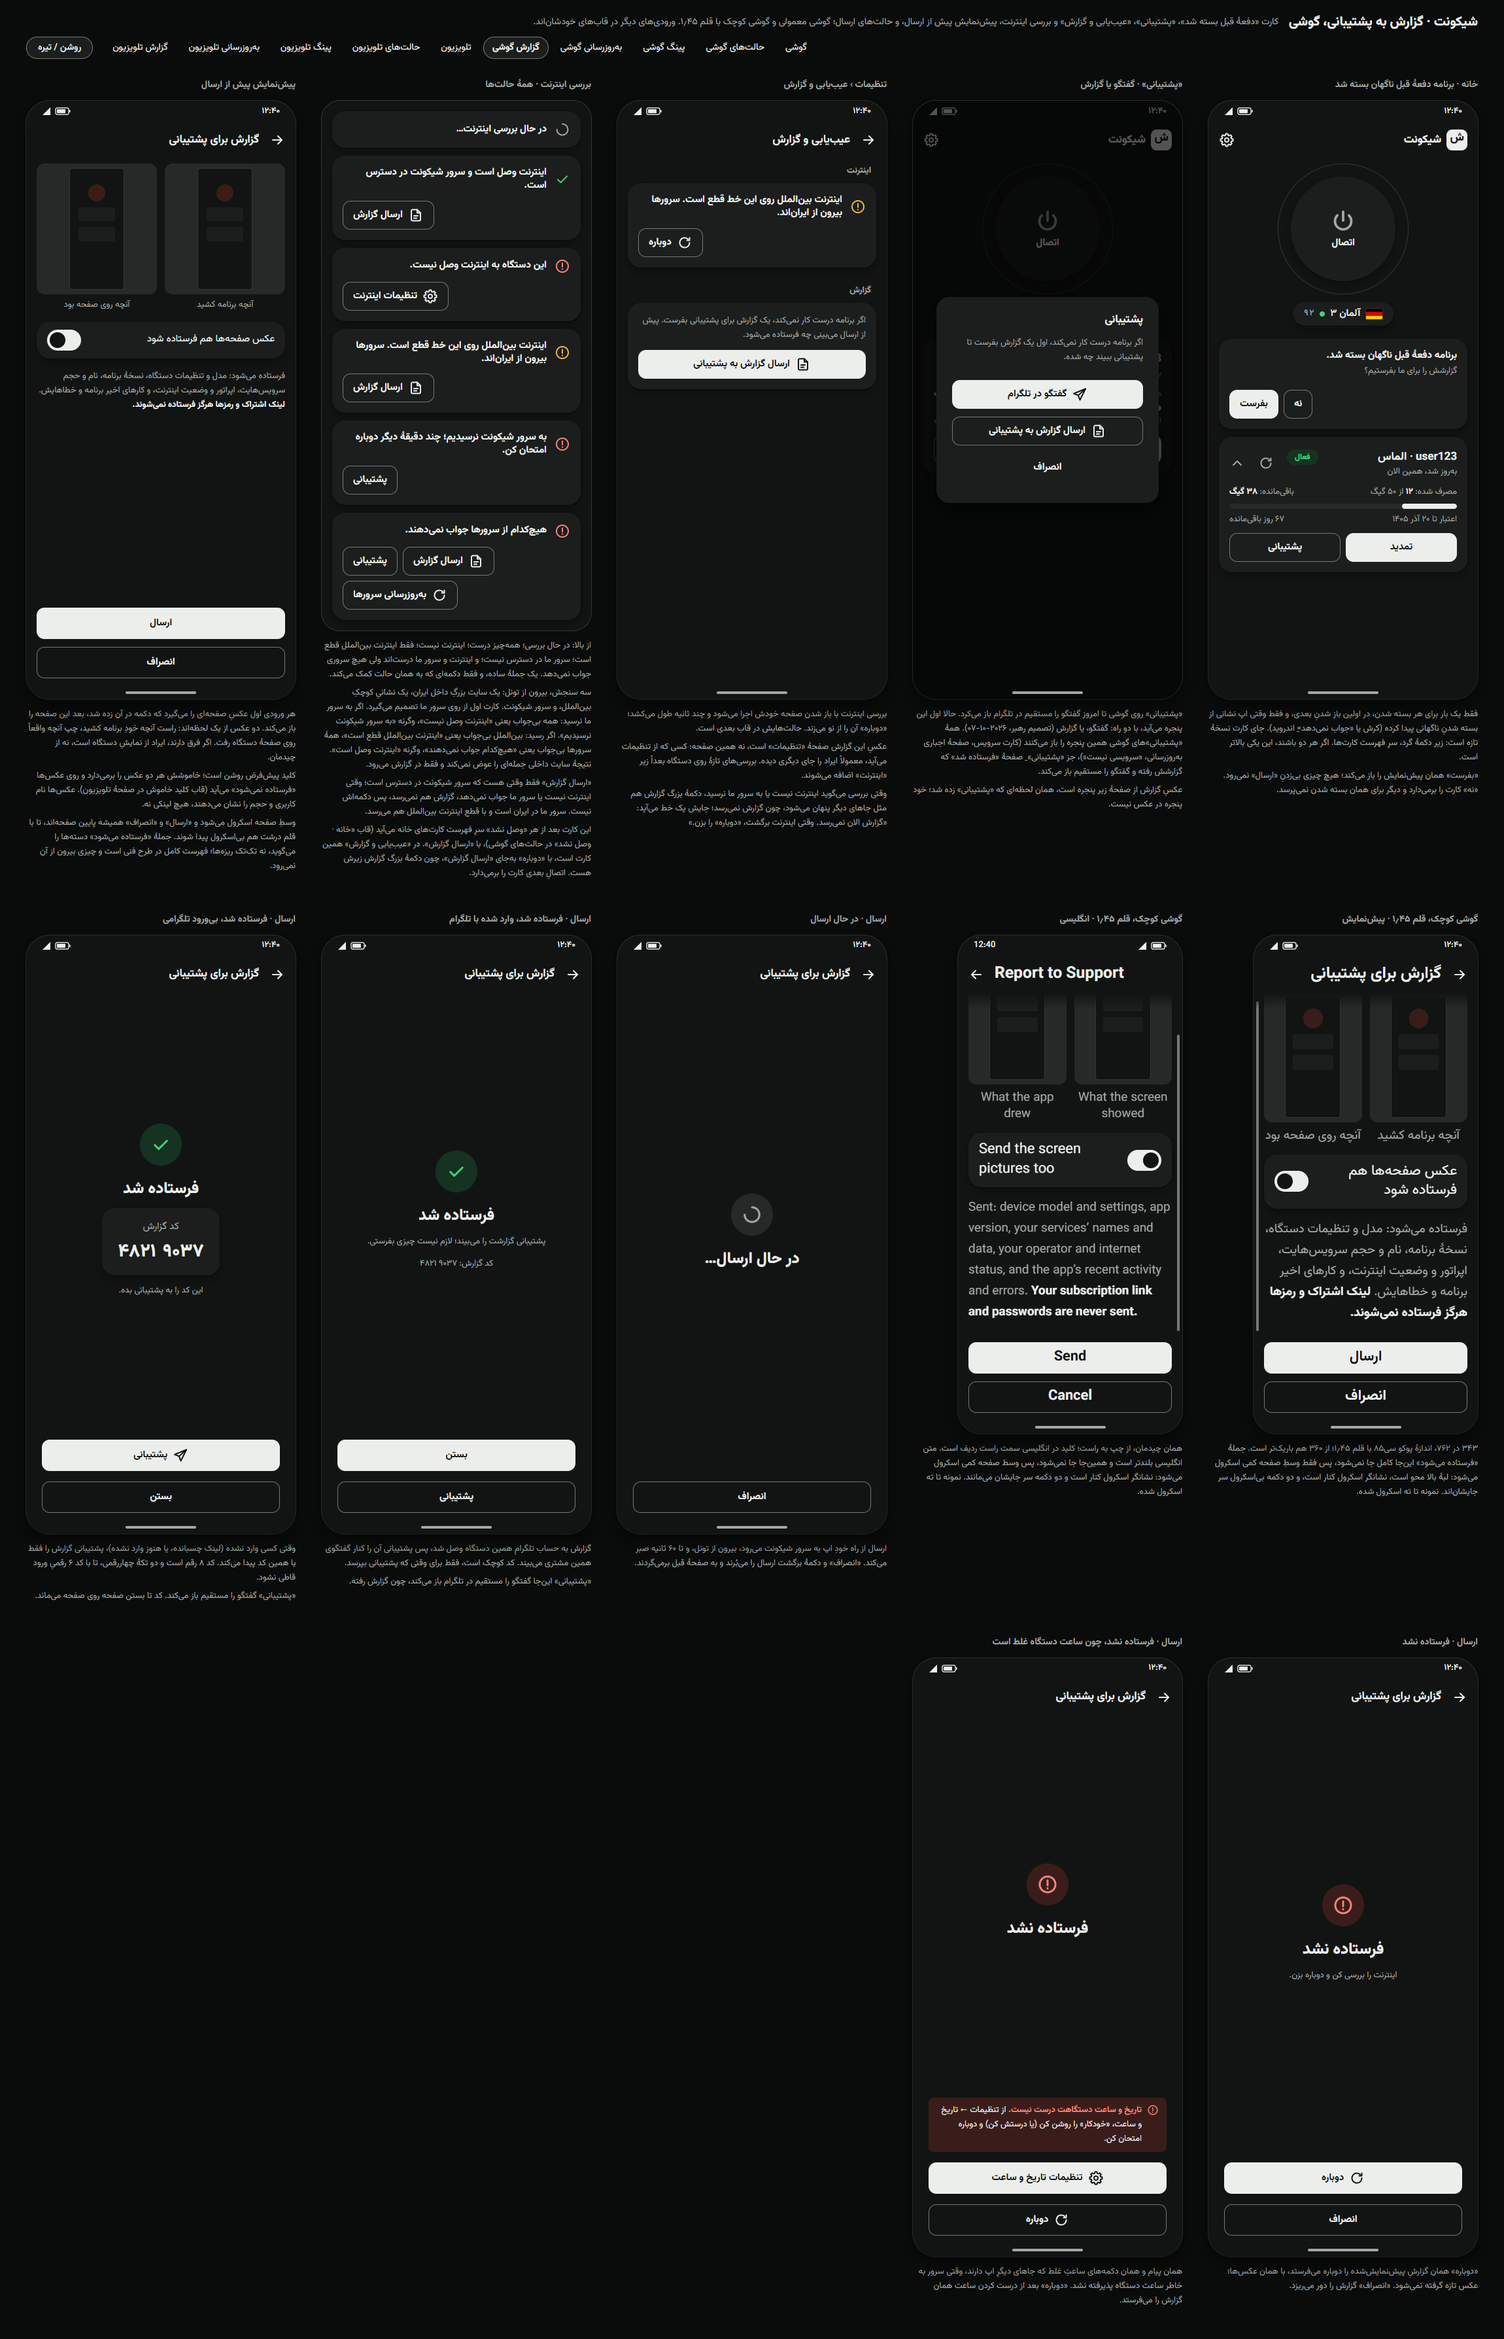
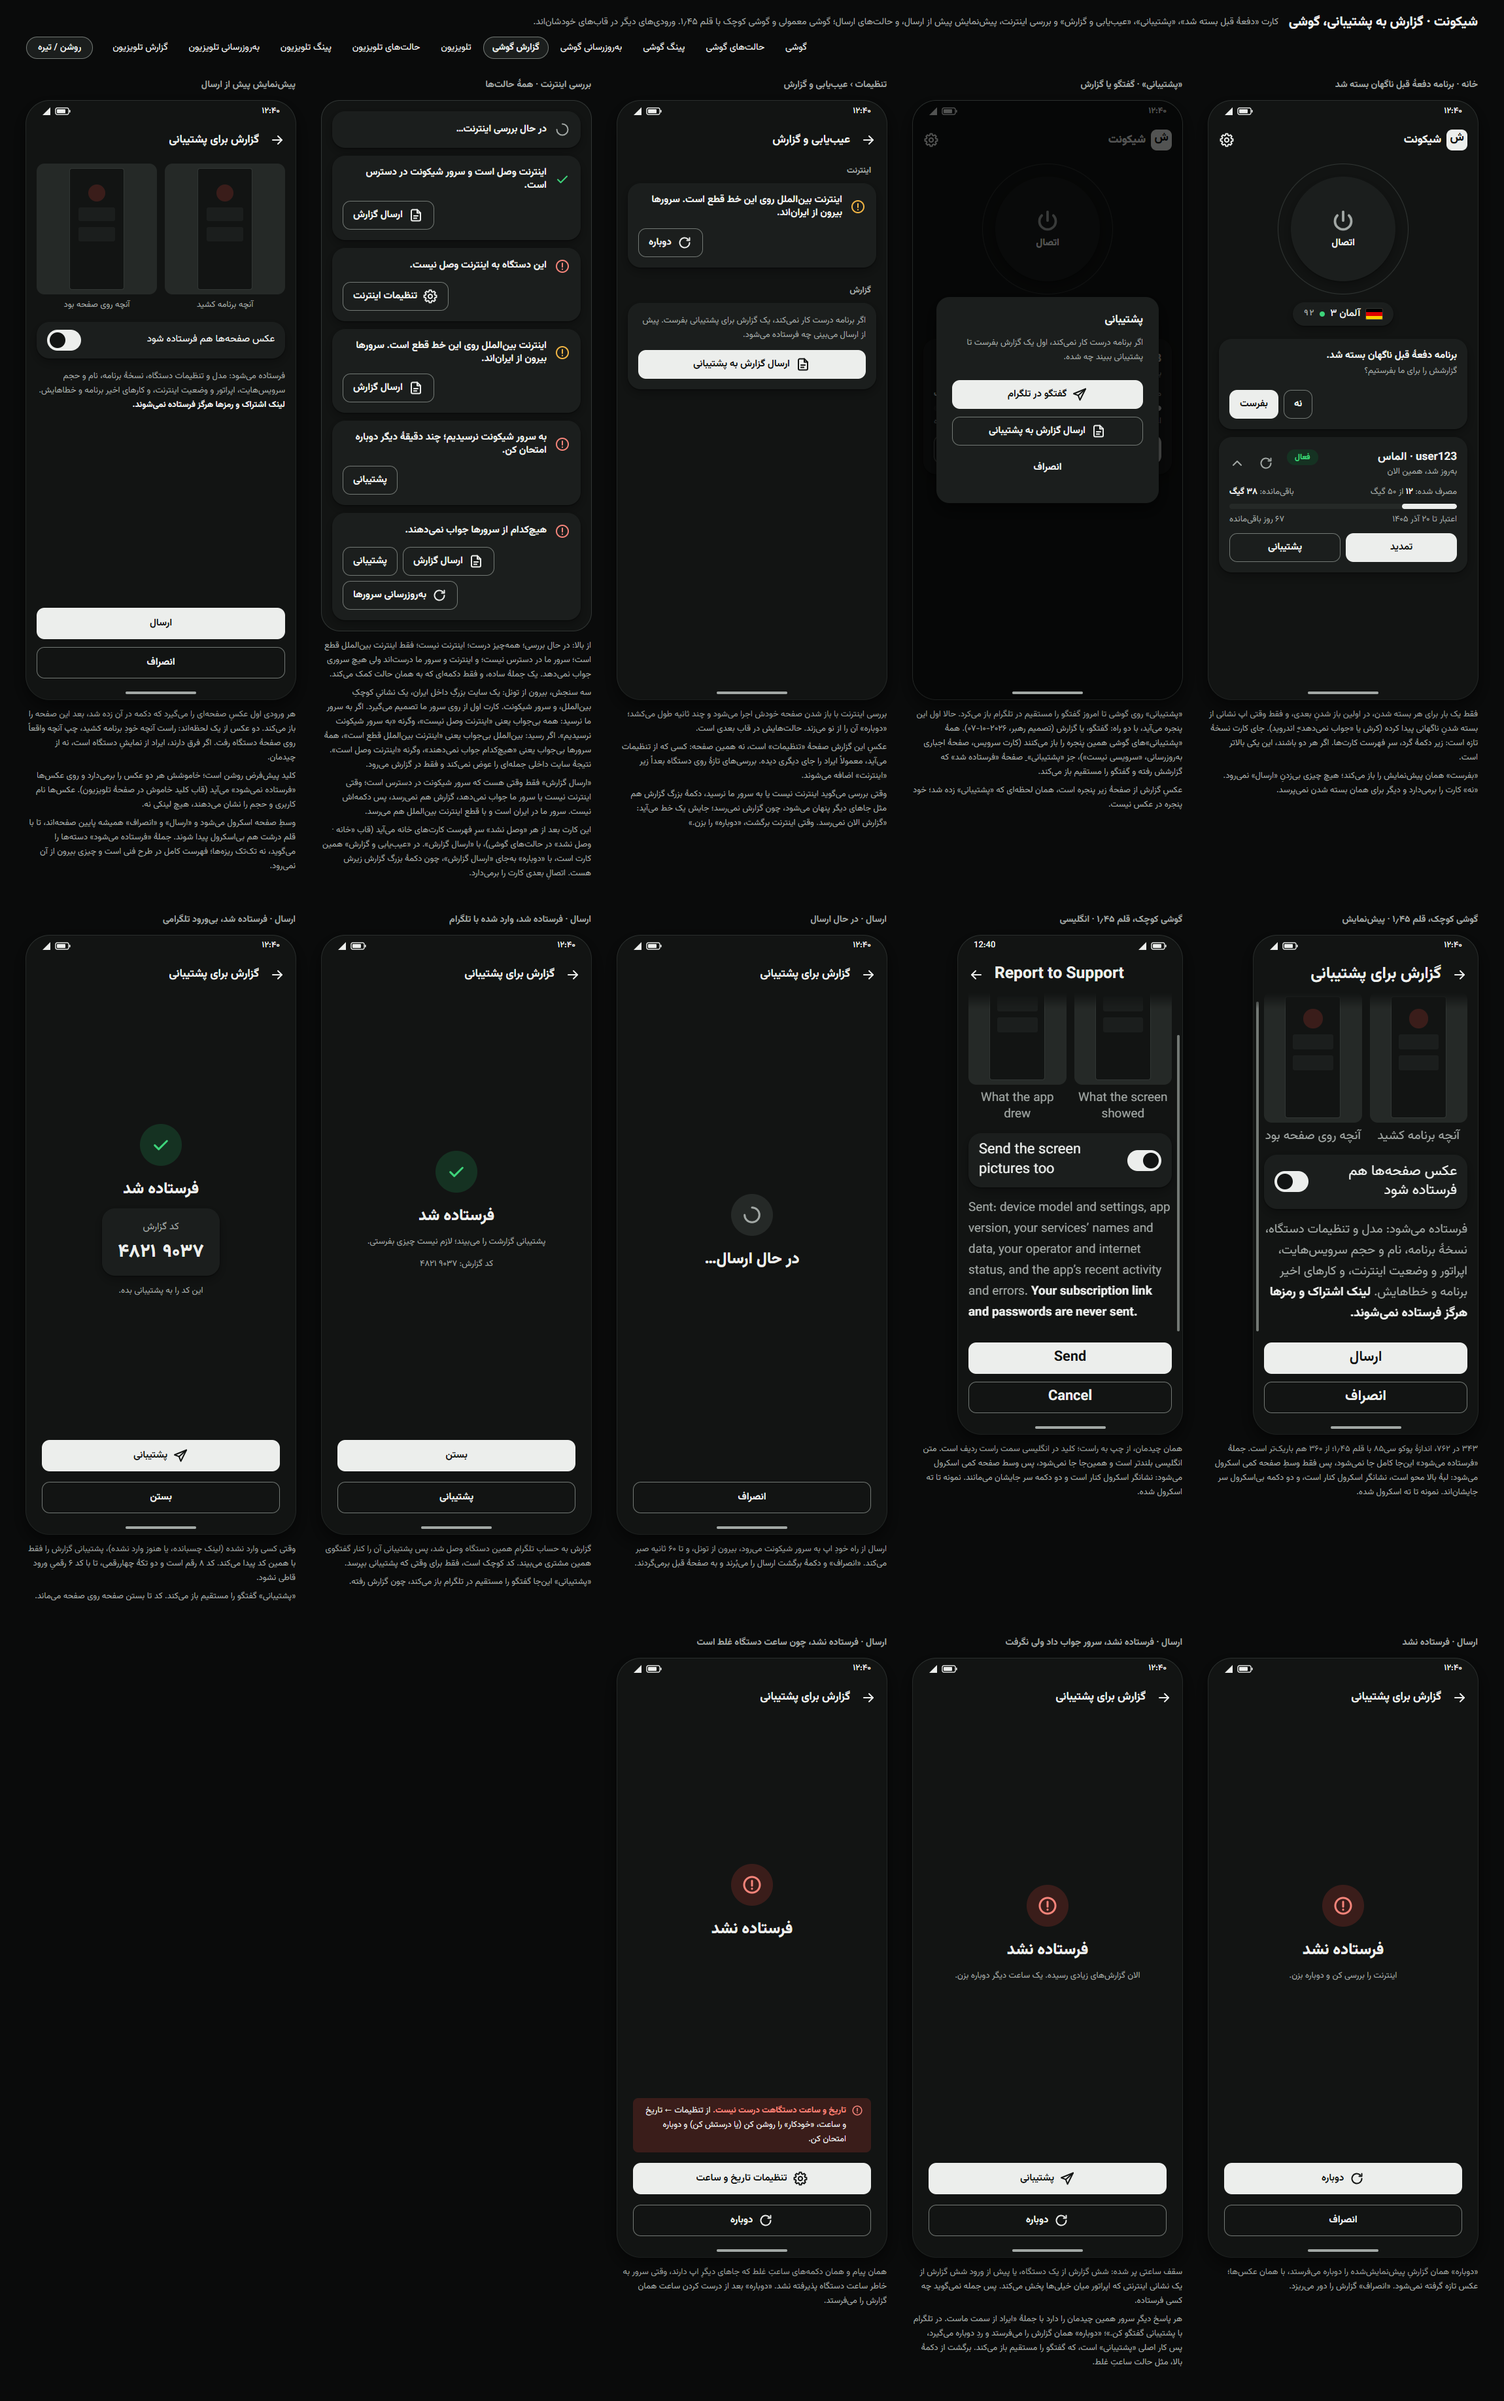
docs(design): word a report the server answered but did not take
A 429 can come from other phones behind the same carrier address or the
hourly total, so it says reports are many, not who sent them. Any other
answer is our own server's, and a retry resends the very same report, so
it owns the fault and points to Support, with Support as the first button.

diff --git a/design/mockups/phone-report.html b/design/mockups/phone-report.html
@@ -393,6 +393,29 @@
   </figure>
 
   <figure class="shot">
+    <figcaption>ارسال · فرستاده نشد، سرور جواب داد ولی نگرفت</figcaption>
+    <div class="phone" data-frame="phone-report-failed-answered">
+      <div class="statusbar"><span>۱۲:۴۰</span><svg><use href="#sb"/></svg></div>
+      <div class="appbar sub">
+        <button class="icon-btn" type="button" aria-label="بازگشت"><svg class="icon"><use href="#i-back"/></svg></button>
+        <h2>گزارش برای پشتیبانی</h2>
+      </div>
+      <div class="login">
+        <div class="login-brand">
+          <span class="hero-icon danger"><svg class="icon"><use href="#i-alert"/></svg></span>
+          <span class="word">فرستاده نشد</span>
+          <span class="sub">الان گزارشهای زیادی رسیده. یک ساعت دیگر دوباره بزن.</span>
+        </div>
+        <button class="btn btn-primary" type="button"><svg class="icon"><use href="#i-plane"/></svg>پشتیبانی</button>
+        <button class="btn btn-outline" type="button"><svg class="icon"><use href="#i-refresh"/></svg>دوباره</button>
+      </div>
+      <div class="gesture"></div>
+    </div>
+    <p class="note">سقف ساعتی پر شده: شش گزارش از یک دستگاه، یا پیش از ورود شش گزارش از یک نشانی اینترنتی که اپراتور میان خیلیها پخش میکند. پس جمله نمیگوید چه کسی فرستاده.</p>
+    <p class="note">هر پاسخ دیگرِ سرور همین چیدمان را دارد با جملهٔ «ایراد از سمت ماست. در تلگرام با پشتیبانی گفتگو کن.»؛ «دوباره» همان گزارش را میفرستد و ردِ دوباره میگیرد، پس کار اصلی «پشتیبانی» است، که گفتگو را مستقیم باز میکند. برگشت از دکمهٔ بالا، مثل حالت ساعتِ غلط.</p>
+  </figure>
+
+  <figure class="shot">
     <figcaption>ارسال · فرستاده نشد، چون ساعت دستگاه غلط است</figcaption>
     <div class="phone" data-frame="phone-report-failed-clock">
       <div class="statusbar"><span>۱۲:۴۰</span><svg><use href="#sb"/></svg></div>

diff --git a/design/mockups/tv-report.html b/design/mockups/tv-report.html
@@ -255,6 +255,26 @@
   </figure>
 
   <figure class="shot">
+    <figcaption>ارسال · فرستاده نشد، سرور جواب داد ولی نگرفت · ریموت روی «پشتیبانی»</figcaption>
+    <div class="tv" data-device="tv" data-frame="tv-report-failed-answered">
+      <header class="tv-top">
+        <h2 class="tv-title">گزارش برای پشتیبانی</h2>
+        <span class="tv-hint">برای برگشت، دکمهٔ برگشتِ ریموت را بزن</span>
+      </header>
+      <div class="tv-result">
+        <span class="hero-icon danger"><svg class="icon"><use href="#i-alert"/></svg></span>
+        <h1>فرستاده نشد</h1>
+        <p>ایراد از سمت ماست. در تلگرام با پشتیبانی گفتگو کن.</p>
+        <div class="actions">
+          <button class="btn btn-primary is-focused" type="button"><svg class="icon"><use href="#i-qr"/></svg>پشتیبانی</button>
+          <button class="btn btn-outline" type="button"><svg class="icon"><use href="#i-refresh"/></svg>دوباره</button>
+        </div>
+      </div>
+    </div>
+    <p class="note">«پشتیبانی» پنجرهٔ کد تصویریِ پشتیبانی را باز میکند، بیدکمهٔ گزارش. وقتی سقف ساعتی پر شده، همین چیدمان با جملهٔ «الان گزارشهای زیادی رسیده. یک ساعت دیگر دوباره بزن.» میآید.</p>
+  </figure>
+
+  <figure class="shot">
     <figcaption>ارسال · فرستاده نشد، ساعت غلط · ریموت روی «تنظیمات تاریخ و ساعت»</figcaption>
     <div class="tv" data-device="tv" data-frame="tv-report-failed-clock">
       <header class="tv-top">
